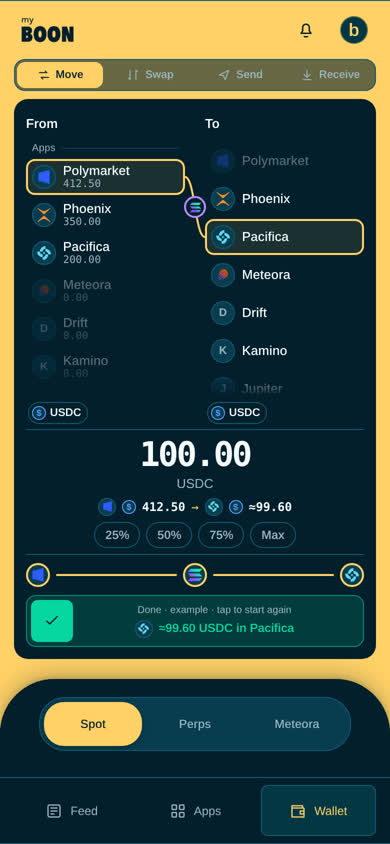
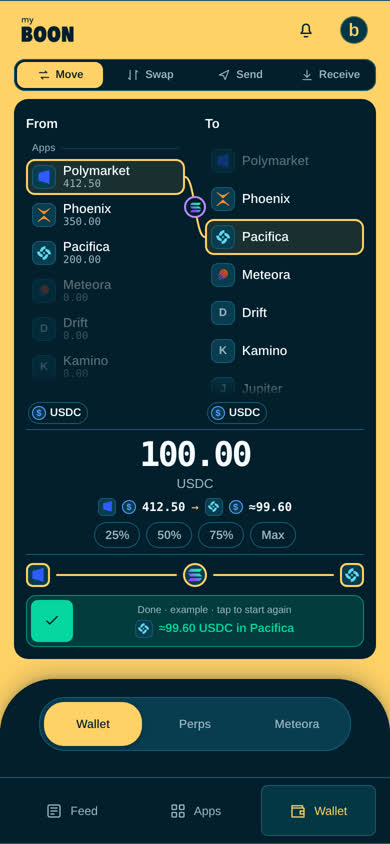
web(wallet-mock): apply #434 review: Wallet tab, app/chain shapes, lighter Base, 44px hit areas, a11y

diff --git a/apps/web/src/app/wallet/wallet.css b/apps/web/src/app/wallet/wallet.css
@@ -261,8 +261,10 @@ body.embed .notes { display:none; } body.embed .presentation { display:block; pa
 .wm-foot a { color:var(--dim); text-decoration:underline; text-underline-offset:2px; }
 .wm-foot a:hover { color:var(--ink); }
 .wm .mk img { width:14px; height:14px; }
-/* every endpoint icon: one size, one round container */
-.mv .mk,.mock-app .mk { border-radius:50%!important; }
+/* endpoint icons: one size; apps rounded squares, chains circles */
+.wm .mk.c { border-radius:50%!important; }
+/* Base square mark inset ~60% so its weight matches Solana and Ethereum */
+.wm .mk img.inset { transform:scale(.62); }
 .mv-wire { overflow:visible; }
 .mv-hop { position:absolute; transform:translate(-50%,-50%); width:22px; height:22px; border-radius:50%; border:2px solid; background:#031F2C; display:grid; place-items:center; z-index:1; pointer-events:none; }
 .mv-hop .mk { width:16px!important; height:16px!important; box-shadow:none!important; background:none!important; font-size:9px!important; }
@@ -295,6 +297,18 @@ body.embed .notes { display:none; } body.embed .presentation { display:block; pa
 .mock-story em { display:block; font:normal 11px var(--mono); color:var(--dim); margin-top:8px; }
 .mock-apps { display:grid; grid-template-columns:1fr 1fr; gap:10px; }
 .mock-app { background:var(--card); border:1px solid var(--edge); border-radius:14px; padding:14px; display:flex; flex-direction:column; gap:6px; }
-.mock-app .mk { width:36px; height:36px; display:grid; place-items:center; background:var(--deep); box-shadow:inset 0 0 0 1px var(--edge); font:700 15px var(--display); }
+.mock-app .mk { width:36px; height:36px; border-radius:10px; display:grid; place-items:center; background:var(--deep); box-shadow:inset 0 0 0 1px var(--edge); font:700 15px var(--display); }
 .mock-app .mk img { width:20px; height:20px; }
 .mock-app strong { font-size:14px; } .mock-app small { color:var(--dim); font-size:11px; }
+
+/* Review #434: 44px hit areas, opaque mode track, reduced motion, pin focus */
+.mv-modes { background:#031F2C; }
+.mv-modes button,.mv-tok button,.mv-chips button { position:relative; }
+.mv-modes button::after { content:""; position:absolute; inset:-6px 0; }
+.mv-tok button::after,.mv-chips button::after { content:""; position:absolute; inset:-11px -4px; }
+.mv-chips button::after { inset:-9px -3px; }
+.mv-pin::before { content:""; position:absolute; inset:-9px; }
+.mv-pin:focus-visible { outline-offset:-2px; }
+.mock-story.compact h2 { font-size:14px; margin:4px 0 0; }
+.mock-story.compact em { margin-top:6px; }
+@media (prefers-reduced-motion:reduce) { .mv-fade,.mv-note,.mv-route * { animation:none!important; transition:none!important; } }

diff --git a/apps/web/src/components/wallet-mock/WalletScreen.tsx b/apps/web/src/components/wallet-mock/WalletScreen.tsx
@@ -44,19 +44,19 @@ export function WalletScreen() {
   )
 }
 
-type Tab = 'spot' | 'perps' | 'meteora'
+type Tab = 'wallet' | 'perps' | 'meteora'
 const ROWS: Record<Tab, { head: [string, string, string]; rows: [string, string, string, string, string, string?][] }> = {
-  spot: { head: ['Markets', 'Your spot balance', '$8,420.00'], rows: [['S', 'Solana', '20 SOL held', '$157.42', '+2.1%'], ['$', 'USD Coin', '4,743.6 USDC held', '$1.00', '0.0%', 'quiet'], ['J', 'Jupiter', '600 JUP held', '$0.88', '+1.3%'], ['₿', 'Bitcoin', 'BTC · No holdings', '$68,720.00', '+1.4%']] },
+  wallet: { head: ['Markets', 'Your balance', '$8,420.00'], rows: [['S', 'Solana', '20 SOL held', '$157.42', '+2.1%'], ['$', 'USD Coin', '4,743.6 USDC held', '$1.00', '0.0%', 'quiet'], ['J', 'Jupiter', '600 JUP held', '$0.88', '+1.3%'], ['₿', 'Bitcoin', 'BTC · No holdings', '$68,720.00', '+1.4%']] },
   perps: { head: ['Your positions', 'Account equity', '$1,650.00'], rows: [['S', 'SOL-PERP', 'Long · 3× · Phoenix', '$950.00', '+12.40 PnL'], ['₿', 'BTC-PERP', 'Short · 2× · Pacifica', '$700.00', '−4.12 PnL', 'negative']] },
   meteora: { head: ['Your pools', 'Liquidity value', '$2,412.56'], rows: [['S', 'SOL / USDC', 'In range', '$1,460.00', '$8.44 fees', 'quiet'], ['J', 'JUP / USDC', 'Out of range', '$952.56', '$3.18 fees', 'quiet']] },
 }
 function Accounts({ minHeight, radius }: { minHeight: number; radius: number }) {
-  const [tab, setTab] = useState<Tab>('spot'), d = ROWS[tab]
+  const [tab, setTab] = useState<Tab>('wallet'), d = ROWS[tab]
   return (
     <section className="market-panel" style={{ minHeight: minHeight || undefined, ['--panel-radius' as string]: radius + 'px' }} aria-label="Markets and positions">
       <div className="market-toolbar">
         <div className="market-tabs" role="tablist">
-          {(['spot', 'perps', 'meteora'] as const).map((t) => <button key={t} role="tab" aria-selected={t === tab} onClick={() => setTab(t)}>{t[0].toUpperCase() + t.slice(1)}</button>)}
+          {(['wallet', 'perps', 'meteora'] as const).map((t) => <button key={t} role="tab" aria-selected={t === tab} onClick={() => setTab(t)}>{t[0].toUpperCase() + t.slice(1)}</button>)}
         </div>
       </div>
       <div className="market-content">

diff --git a/apps/web/src/components/wallet-mock/MoveCard.tsx b/apps/web/src/components/wallet-mock/MoveCard.tsx
@@ -63,7 +63,7 @@ export function MoveCard({ initialScroll }: { initialScroll?: 'from' | 'to' }) {
   const swipe = useSwipe(() => dispatch({ type: 'run' }), s.stage === 'ready' && c.ok)
   const scrollBack = (side: Side) => {
     const r = side === 'f' ? rf.current : rt.current, o = r?.querySelector<HTMLElement>('.mv-row.on')
-    if (r && o) r.scrollTo({ top: Math.max(0, o.offsetTop - r.offsetTop - 80), behavior: 'smooth' })
+    if (r && o) r.scrollTo({ top: Math.max(0, o.offsetTop - r.offsetTop - 80), behavior: matchMedia('(prefers-reduced-motion: reduce)').matches ? 'auto' : 'smooth' })
   }
 
   return (
@@ -148,11 +148,11 @@ function MoveSwipe({ s, swipe, onDone, onKey }: { s: MoveState; swipe: ReturnTyp
   else { lab = 'Done · example · tap to start again'; det = <><Mark k={s.to} />≈{fT(c.rec, s.tt)} {s.tt} in {T.n}</>; glyph = 'check' }
   const done = s.stage === 'pending' ? (s.step + 0.5) / P.steps.length : 0
   return (
-    <button className="swipe" id="mv-swipe" data-stage={s.stage} disabled={s.stage === 'ready' && !c.ok} aria-live="polite"
+    <button className="swipe" id="mv-swipe" data-stage={s.stage} disabled={s.stage === 'ready' && !c.ok}
       style={{ ['--done' as string]: done }} {...swipe}
       onClick={(e) => { if (s.stage === 'success') onDone(); else if (e.detail === 0 && s.stage === 'ready') onKey() }}>
       <span className="swipe-fill" aria-hidden="true" />
-      <span className="swipe-label">{lab}<strong>{det}</strong></span>
+      <span className="swipe-label" aria-live="polite">{lab}<strong>{det}</strong></span>
       <span className="swipe-thumb" aria-hidden="true"><Icon name={glyph} w={2.2} /></span>
     </button>
   )

diff --git a/apps/web/src/components/wallet-mock/icons.tsx b/apps/web/src/components/wallet-mock/icons.tsx
@@ -17,13 +17,13 @@ export const Icon = ({ name, className = 'icon', w = 1.7 }: { name: IconName; cl
   <svg className={className} viewBox="0 0 24 24" fill="none" stroke="currentColor" strokeWidth={w} strokeLinecap="round" strokeLinejoin="round" aria-hidden="true">{P[name]}</svg>
 )
 
-// Endpoint mark: official logo where we have one, else a letter tile. Same size, same round container for all.
+// Endpoint mark: official logo where we have one, else a letter tile. Same size everywhere; apps are rounded squares, chains are circles.
 export function Mark({ k, className = '' }: { k: string; className?: string }) {
   if (k.startsWith('swap')) return <span className={`mk sw ${className}`} aria-label="swap"><Icon name="swapH" w={2.4} /></span>
   const x = BY[k]
   return (
-    <span className={`mk ${className}`} style={{ color: COL[k] || 'var(--dim)' }} aria-hidden="true">
-      {LOGO[k] ? <img src={LOGO[k]} alt="" /> : x.n[0]}
+    <span className={`mk ${x.g === 'chain' ? 'c' : ''} ${className}`} style={{ color: COL[k] || 'var(--dim)' }} aria-hidden="true">
+      {LOGO[k] ? <img src={LOGO[k]} alt="" className={k === 'base' ? 'inset' : undefined} /> : x.n[0]}
     </span>
   )
 }

diff --git a/apps/web/src/components/wallet-mock/FeedApps.tsx b/apps/web/src/components/wallet-mock/FeedApps.tsx
@@ -11,17 +11,16 @@ export const FeedScreen = () => (
   <main className="mock-screen">
     <h1>Today</h1>
     {STORIES.map((x) => (
-      <article key={x.t} className="mock-story">
-        {x.img && <img src={x.img} alt="" />}
-        <div><small>{x.tag}</small><h2>{x.t}</h2><p>{x.s}</p><em>{x.m}</em></div>
-      </article>
+      x.img
+        ? <article key={x.t} className="mock-story"><img src={x.img} alt="" /><div><small>{x.tag}</small><h2>{x.t}</h2><p>{x.s}</p><em>{x.m}</em></div></article>
+        : <article key={x.t} className="mock-story compact"><div><small>{x.tag}</small><h2>{x.t}</h2><em>{x.m}</em></div></article>
     ))}
   </main>
 )
 
 const APPS = [
   ['polymarket', 'Polymarket', 'Prediction markets'], ['pacifica', 'Pacifica', 'Perpetuals'], ['phoenix', 'Phoenix', 'Perpetuals'],
-  ['meteora', 'Meteora', 'Liquidity pools'], ['drift', 'Drift', 'Perpetuals'], ['kamino', 'Kamino', 'Lending'], ['jupiter', 'Jupiter', 'Swap'], ['marginfi', 'marginfi', 'Lending'],
+  ['meteora', 'Meteora', 'Liquidity pools'],
 ] as const
 export const AppsScreen = () => (
   <main className="mock-screen">
